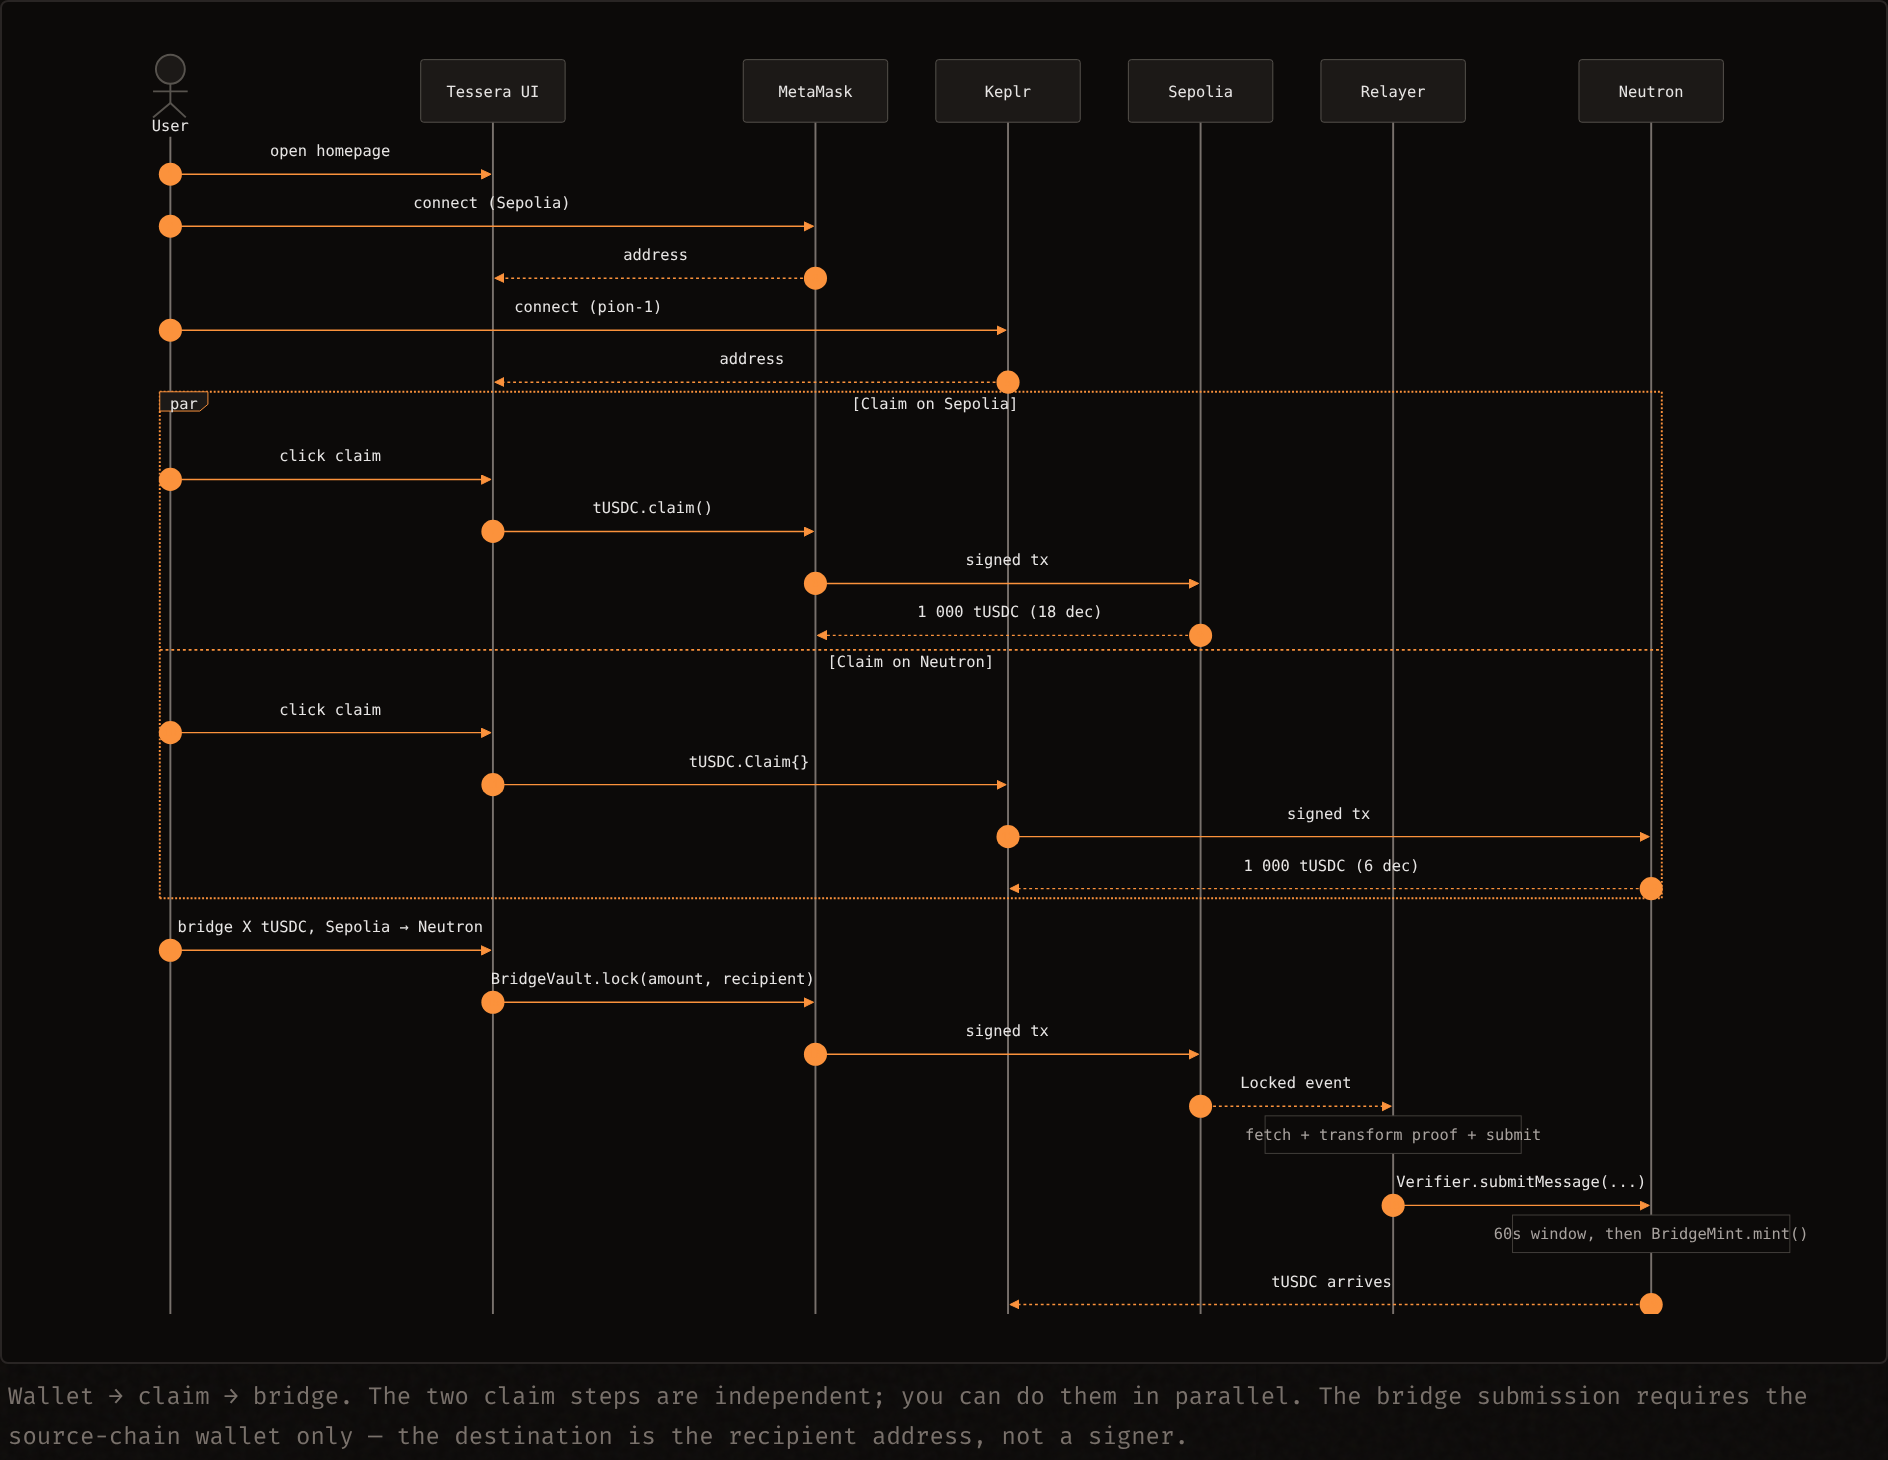
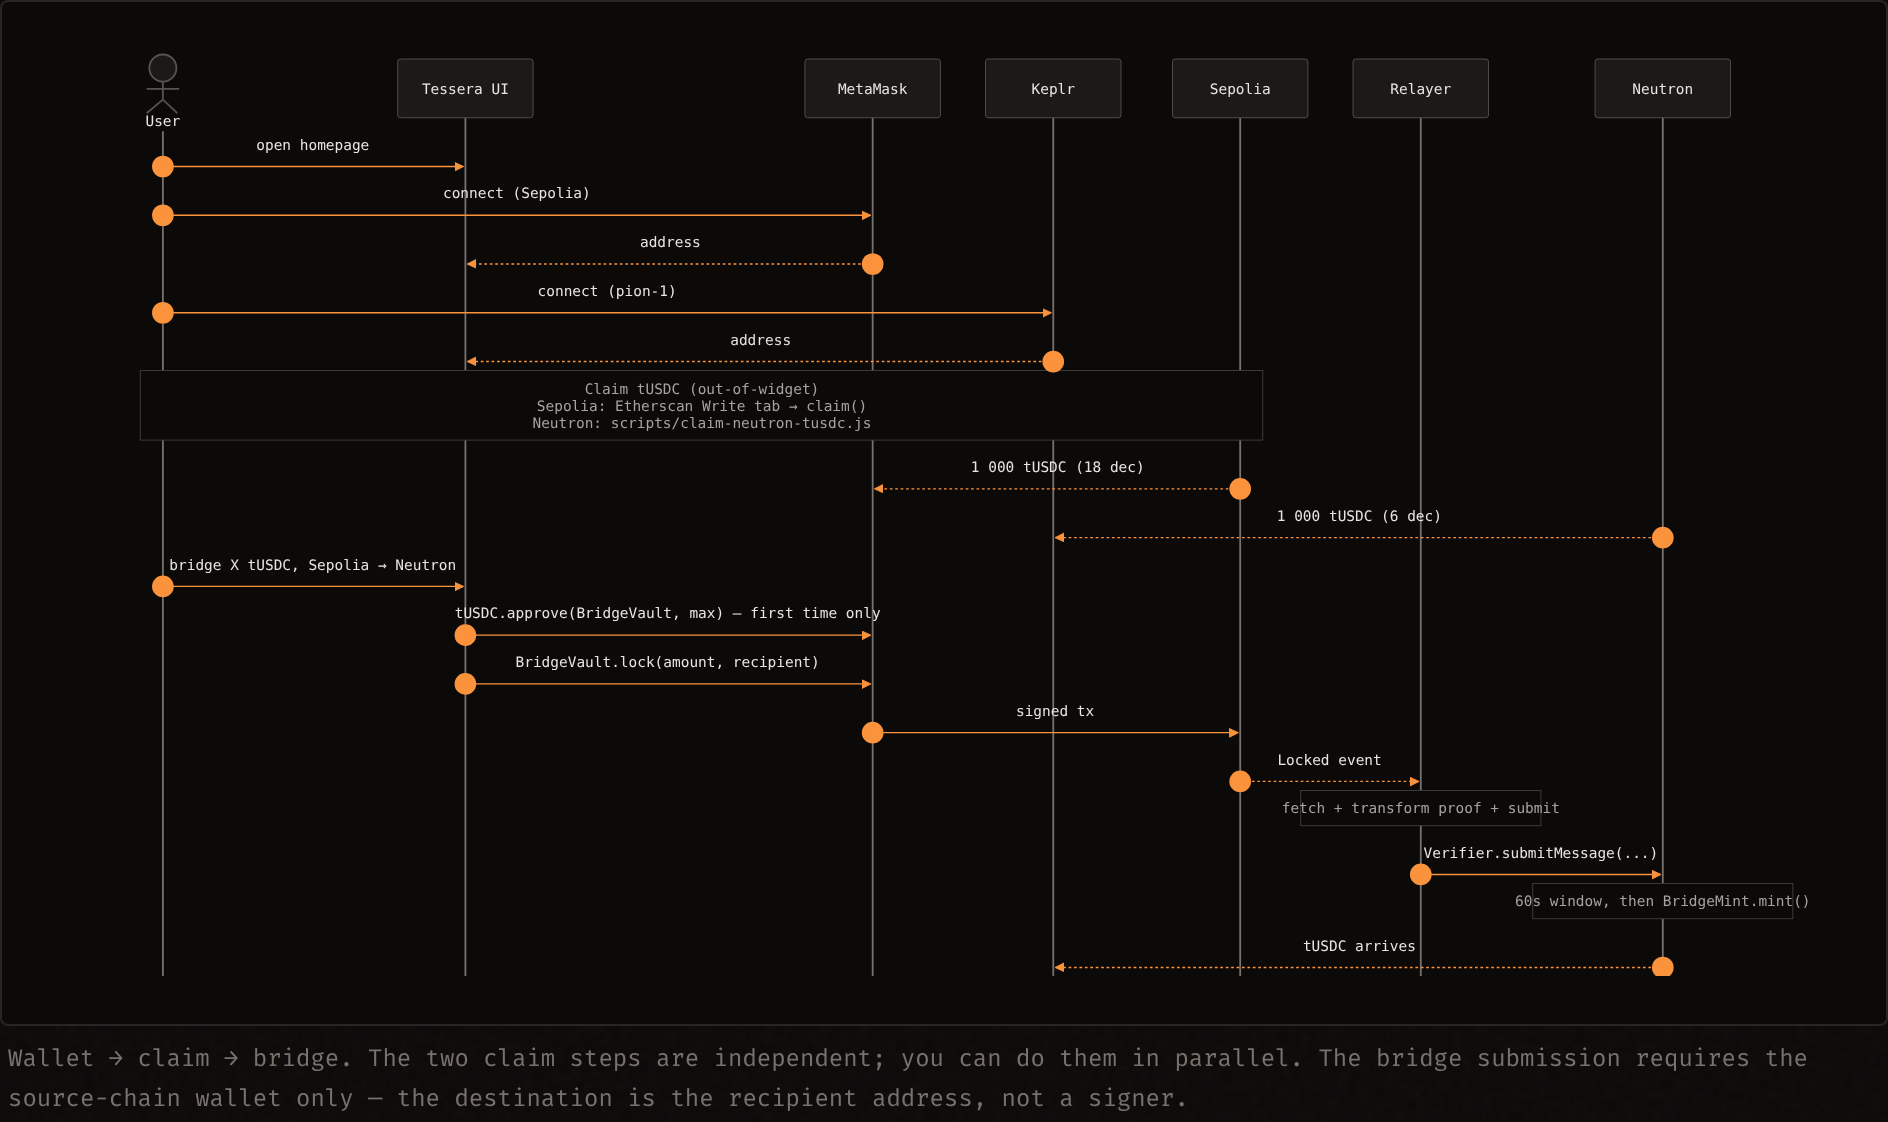
docs: remove non-existent claim button from wallet flow
The bridge widget on the homepage does NOT have a claim button — the on-page
tUSDC balance is read-only display. Users mint tUSDC via Etherscan's Write tab
or the claim-neutron-tusdc.js script, not via the widget.

Updates:
- frontend/app/docs/page.tsx — replaced "click the tUSDC balance pill" copy
  (the pill is not clickable) with the actual minting paths. Updated the
  wallet swimlane diagram to drop the fictional FE→tUSDC.claim() popups and
  show the real two-popup bridge flow (approve + lock).
- docs/images/mermaid/08-wallets-1.png — re-captured the swimlane.

Notion Page 9 (tUSDC Bridge) updated separately with the same correction.

diff --git a/frontend/app/docs/page.tsx b/frontend/app/docs/page.tsx
@@ -1173,19 +1173,12 @@ function WalletsContent() {
     U->>K: connect (pion-1)
     K-->>FE: address
 
-    par Claim on Sepolia
-        U->>FE: click claim
-        FE->>MM: tUSDC.claim()
-        MM->>SEP: signed tx
-        SEP-->>MM: 1 000 tUSDC (18 dec)
-    and Claim on Neutron
-        U->>FE: click claim
-        FE->>K: tUSDC.Claim{}
-        K->>NEU: signed tx
-        NEU-->>K: 1 000 tUSDC (6 dec)
-    end
+    Note over U,SEP: Claim tUSDC (out-of-widget)<br/>Sepolia: Etherscan Write tab → claim()<br/>Neutron: scripts/claim-neutron-tusdc.js
+    SEP-->>MM: 1 000 tUSDC (18 dec)
+    NEU-->>K: 1 000 tUSDC (6 dec)
 
     U->>FE: bridge X tUSDC, Sepolia → Neutron
+    FE->>MM: tUSDC.approve(BridgeVault, max) — first time only
     FE->>MM: BridgeVault.lock(amount, recipient)
     MM->>SEP: signed tx
     SEP-->>R: Locked event
@@ -1202,9 +1195,9 @@ function WalletsContent() {
             <strong className="text-stone-200">Connect:</strong> Click &ldquo;Connect MetaMask&rdquo; on the homepage. Select Sepolia in your wallet.
           </p>
           <p>
-            <strong className="text-stone-200">Claim tUSDC:</strong> After connecting, click the tUSDC balance pill or call{' '}
-            <code className="bg-stone-950 px-1.5 py-0.5 rounded text-xs text-orange-400">claim()</code> on Etherscan.
-            Each claim gives you 1 000 tUSDC (with 18 decimal places). Cooldown: 24 hours.
+            <strong className="text-stone-200">Claim tUSDC:</strong> The bridge widget does not include a claim button — the on-page tUSDC balance is read-only display. To mint, call{' '}
+            <code className="bg-stone-950 px-1.5 py-0.5 rounded text-xs text-orange-400">claim()</code> on the tUSDC contract directly via Etherscan&apos;s <em>Write Contract</em> tab, or via{' '}
+            <code className="bg-stone-950 px-1.5 py-0.5 rounded text-xs text-stone-300">cast send</code>. Each claim gives 1 000 tUSDC (18 decimals). Cooldown: 24 hours.
           </p>
           <p>
             <strong className="text-stone-200">Add tUSDC to MetaMask:</strong>
